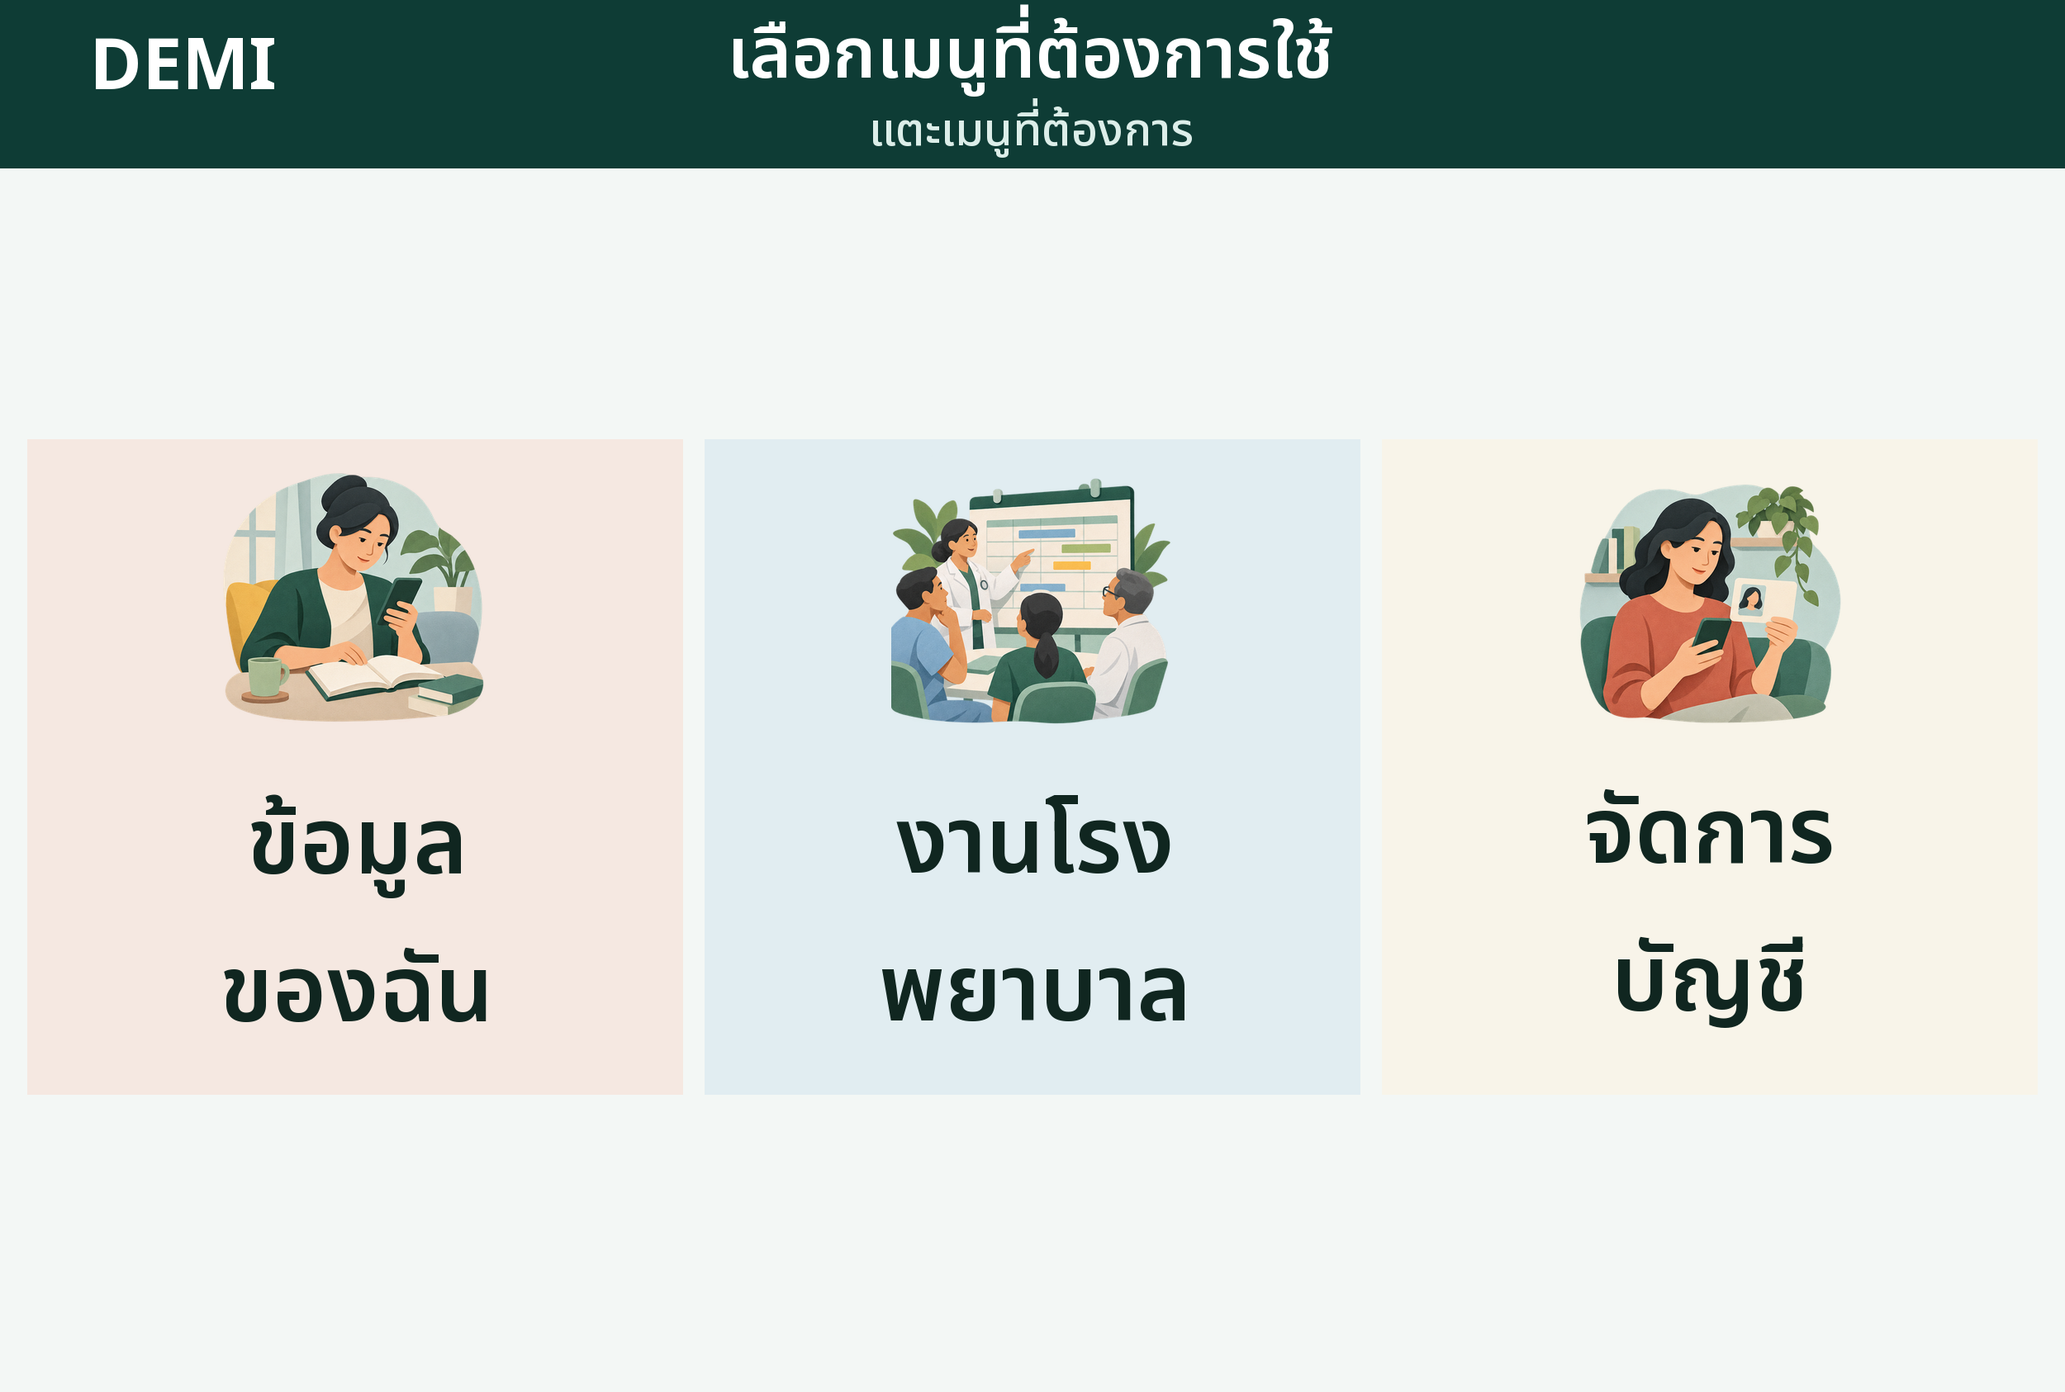
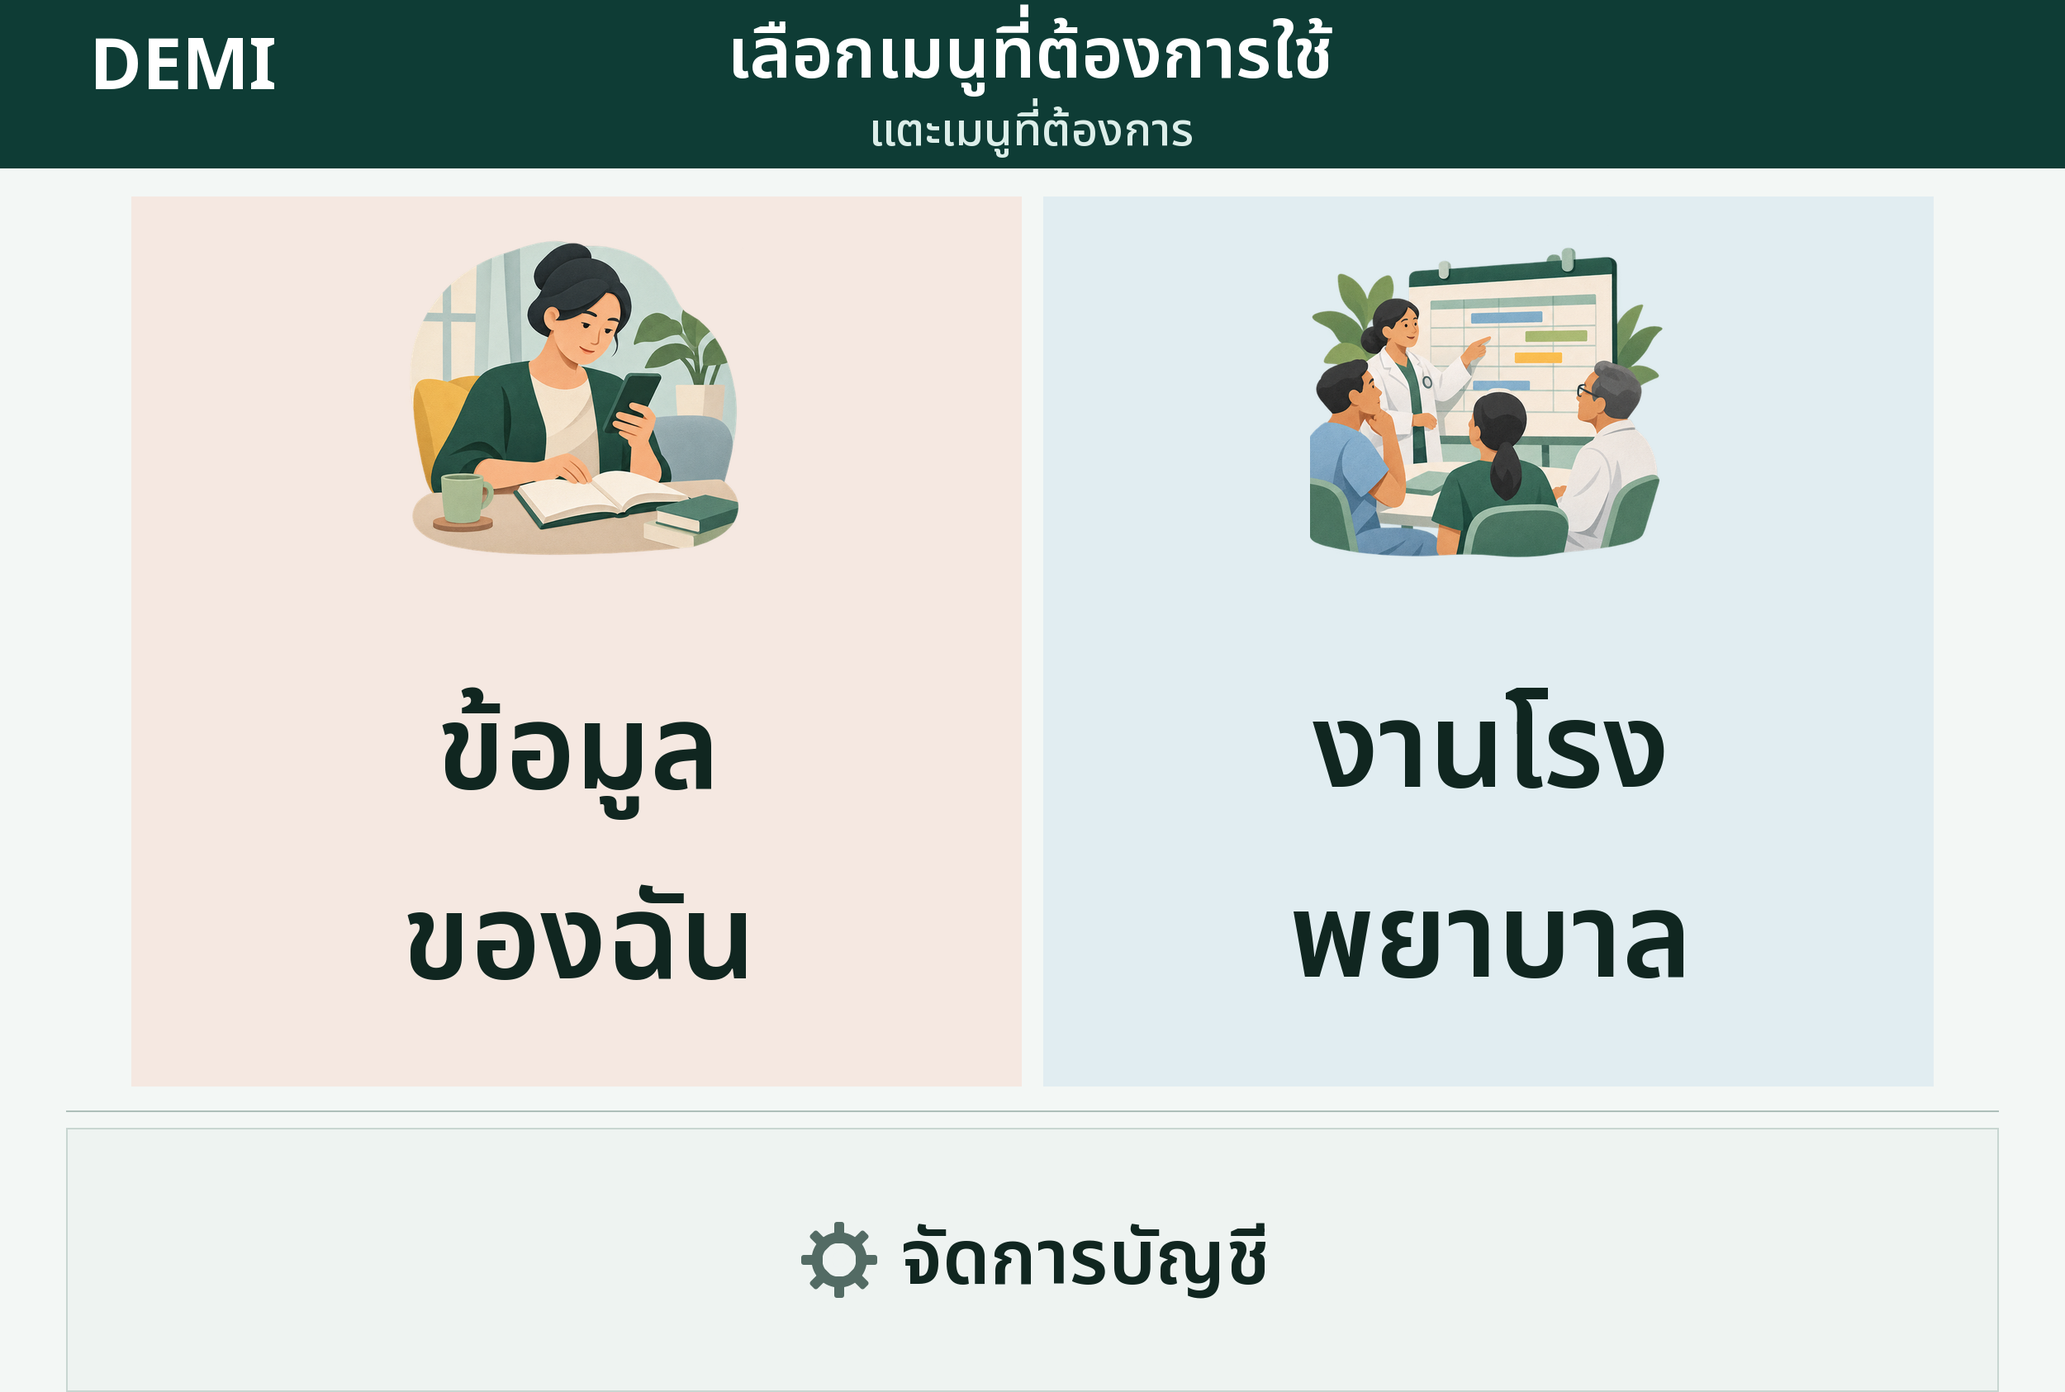
Render Manage Account as a utility footer

diff --git a/scripts/line-rich-menu-renderer.ts b/scripts/line-rich-menu-renderer.ts
@@ -25,6 +25,11 @@ const colors = {
   accountPrimary: "#F2E8D0",
   accountSecondary: "#F8F4E9",
   headerContext: "#DCEEE9",
+  utilitySurface: "#EEF3F1",
+  utilityBorder: "#C8D6D1",
+  statusBorder: "#D5E0DC",
+  separator: "#AEBFBA",
+  utilityInk: "#536B64",
 } as const;
 
 const toneColors: Record<LineRichMenuIllustrationTone, { primary: string; secondary: string }> = {
@@ -65,21 +70,25 @@ const OSM_TASK_INTENTS = new Set([
 
 type FontWeight = "Medium" | "Semi-Bold" | "Bold";
 
-type MenuActionManifest = {
+type MenuActionManifestBase = {
   label: string;
   kind: "uri" | "richmenuswitch" | "message";
   intent: string | null;
-  illustration: LineRichMenuIllustration;
-  tone: LineRichMenuIllustrationTone;
   bounds: LineMenuBounds;
 };
+
+export type LineRichMenuMenuAction = MenuActionManifestBase & (
+  | { region: "primary"; illustration: LineRichMenuIllustration; tone: LineRichMenuIllustrationTone }
+  | { region: "utility"; icon: "settings" }
+);
 
 export type LineRichMenuAssetManifestEntry = {
   key: string;
   title: string;
   context: string;
   assetFile: string;
-  actions: readonly MenuActionManifest[];
+  actions: readonly LineRichMenuMenuAction[];
+  status: { label: string; bounds: LineMenuBounds } | null;
 };
 
 export type LineMenuTextStyle = { fontSize: number; weight: FontWeight; color: string };
@@ -150,7 +159,7 @@ async function createTextOverlay(
 
 function isPrimaryAction(
   menu: LineRichMenuAssetManifestEntry,
-  action: MenuActionManifest,
+  action: LineRichMenuMenuAction,
   index: number,
 ): boolean {
   if (menu.key.startsWith("CHOOSER_")) return action.kind === "richmenuswitch";
@@ -163,12 +172,15 @@ function isPrimaryAction(
   return menu.actions.length === 1 || index === 0;
 }
 
-function getActionFontSize(action: MenuActionManifest): number {
-  return action.bounds.width < 500 ? 88 : action.bounds.width < 800 ? 112 : 144;
+function getActionFontSize(action: LineRichMenuMenuAction): number {
+  if (action.bounds.width < 500) return 84;
+  if (action.bounds.width < 600) return 96;
+  if (action.bounds.width < 800) return 112;
+  return 144;
 }
 
 function getIllustrationSize(bounds: LineMenuBounds): number {
-  return Math.round(Math.min(bounds.width * 0.76, bounds.height * 0.43));
+  return Math.round(Math.min(bounds.width * 0.76, bounds.height * 0.4));
 }
 
 export function getLineRichMenuActionLines(label: string): readonly string[] {
@@ -176,14 +188,69 @@ export function getLineRichMenuActionLines(label: string): readonly string[] {
 }
 
 function buildBaseSvg(menu: LineRichMenuAssetManifestEntry): string {
-  const areas = menu.actions.map((action, index) => {
+  const areas = menu.actions.filter((action) => action.region === "primary").map((action, index) => {
     const background = toneColors[action.tone][isPrimaryAction(menu, action, index) ? "primary" : "secondary"];
     const { x, y, width, height } = action.bounds;
     // The flat rectangular field aligns with LINE's tappable area; gutters remain visible between actions.
     return `<rect x="${x + 1}" y="${y + 1}" width="${width - 2}" height="${height - 2}" fill="${background}"/>`;
   }).join("");
+  const utility = menu.actions.find(
+    (action): action is Extract<LineRichMenuMenuAction, { region: "utility" }> => action.region === "utility",
+  );
+  const utilitySurface = utility
+    ? `<rect x="${utility.bounds.x + 1}" y="${utility.bounds.y + 1}" width="${utility.bounds.width - 2}" height="${utility.bounds.height - 2}" fill="${colors.utilitySurface}" stroke="${colors.utilityBorder}" stroke-width="2"/>`
+    : "";
+  const separator = utility
+    ? `<path d="M${utility.bounds.x} ${utility.bounds.y - 20}H${utility.bounds.x + utility.bounds.width}" stroke="${colors.separator}" stroke-width="2"/>`
+    : "";
+  const status = menu.status
+    ? `<rect x="${menu.status.bounds.x + 1}" y="${menu.status.bounds.y + 1}" width="${menu.status.bounds.width - 2}" height="${menu.status.bounds.height - 2}" fill="${colors.utilitySurface}" stroke="${colors.statusBorder}" stroke-width="2"/>`
+    : "";
 
-  return `<svg xmlns="http://www.w3.org/2000/svg" width="${LINE_RICH_MENU_CANVAS.width}" height="${LINE_RICH_MENU_CANVAS.height}" viewBox="0 0 2500 1686"><rect width="2500" height="1686" fill="${colors.canvas}"/><rect width="2500" height="204" fill="${colors.brand}"/>${areas}</svg>`;
+  return `<svg xmlns="http://www.w3.org/2000/svg" width="${LINE_RICH_MENU_CANVAS.width}" height="${LINE_RICH_MENU_CANVAS.height}" viewBox="0 0 2500 1686"><rect width="2500" height="1686" fill="${colors.canvas}"/><rect width="2500" height="204" fill="${colors.brand}"/>${areas}${status}${separator}${utilitySurface}</svg>`;
+}
+
+function createSettingsGearBuffer(): Buffer {
+  const teeth = Array.from({ length: 8 }, (_, index) =>
+    `<rect x="42" y="2" width="12" height="26" rx="3" transform="rotate(${index * 45} 48 48)"/>`,
+  ).join("");
+  return Buffer.from(
+    `<svg xmlns="http://www.w3.org/2000/svg" width="96" height="96" viewBox="0 0 96 96"><g fill="${colors.utilityInk}">${teeth}</g><circle cx="48" cy="48" r="27" fill="none" stroke="${colors.utilityInk}" stroke-width="13"/><circle cx="48" cy="48" r="9" fill="${colors.utilitySurface}"/></svg>`,
+  );
+}
+
+async function createUtilityFooterOverlays(action: Extract<LineRichMenuMenuAction, { region: "utility" }>): Promise<ImageOverlay[]> {
+  const icon = createSettingsGearBuffer();
+  const iconSize = 96;
+  const iconBuffer = await sharp(icon).resize(iconSize, iconSize).png().toBuffer();
+  const labelBuffer = await renderThaiTextBuffer(action.label, {
+    fontSize: 92,
+    weight: "Semi-Bold",
+    color: colors.ink,
+  });
+  const metadata = await sharp(labelBuffer).metadata();
+  if (metadata.width === undefined || metadata.height === undefined) {
+    throw new Error("Could not measure the Manage Account footer label.");
+  }
+
+  const gap = 30;
+  const groupWidth = iconSize + gap + metadata.width;
+  if (groupWidth > action.bounds.width - 80 || metadata.height > action.bounds.height - 24) {
+    throw new Error("Manage Account footer content exceeds its LINE tappable area.");
+  }
+  const groupLeft = Math.round(action.bounds.x + (action.bounds.width - groupWidth) / 2);
+  return [
+    {
+      input: iconBuffer,
+      left: groupLeft,
+      top: action.bounds.y + Math.round((action.bounds.height - iconSize) / 2),
+    },
+    {
+      input: labelBuffer,
+      left: groupLeft + iconSize + gap,
+      top: action.bounds.y + Math.round((action.bounds.height - metadata.height) / 2),
+    },
+  ];
 }
 
 export async function renderLineRichMenuImage(menu: LineRichMenuAssetManifestEntry): Promise<Buffer> {
@@ -193,6 +260,7 @@ export async function renderLineRichMenuImage(menu: LineRichMenuAssetManifestEnt
   const textOverlays: ImageOverlay[] = [];
 
   for (const action of menu.actions) {
+    if (action.region !== "primary") continue;
     const illustrationSize = getIllustrationSize(action.bounds);
     const illustration = await getLineRichMenuIllustrationBuffer(action.illustration);
     const image = await sharp(illustration)
@@ -233,6 +301,7 @@ export async function renderLineRichMenuImage(menu: LineRichMenuAssetManifestEnt
   ));
 
   for (const action of menu.actions) {
+    if (action.region !== "primary") continue;
     const fontSize = getActionFontSize(action);
     textOverlays.push(await createTextOverlay(
       getLineRichMenuActionLines(action.label).join("\n"),
@@ -245,6 +314,20 @@ export async function renderLineRichMenuImage(menu: LineRichMenuAssetManifestEnt
       { fontSize, weight: "Semi-Bold", color: colors.ink },
       { horizontal: 24, vertical: 4 },
       `${menu.key} action “${action.label}”`,
+    ));
+  }
+
+  const utilityAction = menu.actions.find(
+    (action): action is Extract<LineRichMenuMenuAction, { region: "utility" }> => action.region === "utility",
+  );
+  if (utilityAction) illustrationOverlays.push(...await createUtilityFooterOverlays(utilityAction));
+  if (menu.status) {
+    textOverlays.push(await createTextOverlay(
+      menu.status.label,
+      menu.status.bounds,
+      { fontSize: 84, weight: "Medium", color: colors.ink },
+      { horizontal: 32, vertical: 12 },
+      `${menu.key} non-interactive account status`,
     ));
   }
 

diff --git a/src/modules/line/rich-menu/assets.test.ts b/src/modules/line/rich-menu/assets.test.ts
@@ -12,7 +12,7 @@ import {
 } from "../../../../scripts/line-rich-menu-illustrations";
 import { getLineRichMenuActionLines, getLineRichMenuColors, renderLineRichMenuImage } from "../../../../scripts/line-rich-menu-renderer";
 import { LINE_RICH_MENU_CATALOG } from "./catalog";
-import { getLineMenuAreaBounds } from "./layout";
+import { getLineMenuLayout } from "./layout";
 
 const assetDirectory = join(dirname(fileURLToPath(import.meta.url)), "../../../../public/line/rich-menus");
 
@@ -42,13 +42,15 @@ describe("DEMI LINE Rich Menu PNG assets", () => {
     for (const menu of LINE_RICH_MENU_CATALOG) {
       const assetMenu = manifest.find((entry) => entry.key === menu.key);
       if (!assetMenu) throw new Error(`Missing asset manifest entry for ${menu.key}.`);
-      expect(assetMenu.actions.map((action) => action.bounds)).toEqual(getLineMenuAreaBounds(menu));
+      expect(assetMenu.actions.map((action) => action.bounds)).toEqual(
+        getLineMenuLayout(menu).actionAreas.map(({ bounds }) => bounds),
+      );
     }
   });
 
   it("maps catalog actions to bundled, role-aware editorial illustrations independent of labels", async () => {
     const expected: Record<string, LineRichMenuIllustration> = {
-      LINK_ACCOUNT: "account-linking", MANAGE_ACCOUNT: "account-management",
+      LINK_ACCOUNT: "account-linking",
       OPEN_PATIENT_APPOINTMENTS: "patient-appointment-history", OPEN_PATIENT_WELLNESS: "patient-wellness-recording",
       OPEN_PATIENT_MEDICATIONS: "patient-medication-review", OPEN_PATIENT_CARE: "patient-care-guidance",
       OPEN_OSM_ASSIGNED_PATIENTS: "osm-community-workspace", START_OSM_SCREENING: "osm-screening",
@@ -59,6 +61,10 @@ describe("DEMI LINE Rich Menu PNG assets", () => {
     const seenIllustrations = new Set<LineRichMenuIllustration>();
     for (const menu of LINE_RICH_MENU_CATALOG) {
       for (const action of menu.actions) {
+        if (action.type === "uri" && action.intent === "MANAGE_ACCOUNT") {
+          expect(() => getLineRichMenuActionVisual(menu, action)).toThrow("has no illustration");
+          continue;
+        }
         const visual = getLineRichMenuActionVisual(menu, { ...action, label: "เปลี่ยนข้อความทดสอบ" });
         const expectedIllustration = action.type === "message" ? "patient-appointment-consultation"
           : action.type === "richmenuswitch" ? roles[action.role]
@@ -75,7 +81,35 @@ describe("DEMI LINE Rich Menu PNG assets", () => {
         expect(metadata.height).toBeGreaterThan(0);
       }
     }
-    expect(seenIllustrations.size).toBe(13);
+    expect(seenIllustrations.size).toBe(12);
+  });
+
+  it("renders Manage Account only as a settings utility and keeps the ineligible status non-interactive", () => {
+    const manifest = createLineRichMenuAssetManifest();
+    expect(manifest).toHaveLength(18);
+    expect(JSON.stringify(manifest)).not.toContain("account-management");
+
+    for (const menu of manifest) {
+      const utilityActions = menu.actions.filter((action) => action.region === "utility");
+      const primaryActions = menu.actions.filter((action) => action.region === "primary");
+      expect(utilityActions, menu.key).toHaveLength(menu.key === "UNLINKED" ? 0 : 1);
+      expect(primaryActions.some((action) => action.intent === "MANAGE_ACCOUNT"), menu.key).toBe(false);
+      for (const action of utilityActions) {
+        expect(action).toMatchObject({ region: "utility", icon: "settings", label: "จัดการบัญชี" });
+        expect("illustration" in action).toBe(false);
+        expect("tone" in action).toBe(false);
+      }
+    }
+
+    const unlinked = manifest.find((menu) => menu.key === "UNLINKED");
+    const ineligible = manifest.find((menu) => menu.key === "LINKED_INELIGIBLE");
+    expect(unlinked?.status).toBeNull();
+    expect(ineligible?.status).toEqual({
+      label: "บัญชีนี้ยังไม่มีเมนูให้ใช้งาน",
+      bounds: { x: 220, y: 620, width: 2060, height: 420 },
+    });
+    expect(ineligible?.actions).toHaveLength(1);
+    expect(ineligible?.actions[0]).toMatchObject({ region: "utility", icon: "settings" });
   });
 
   it("preserves every Thai label through intentional line breaks", () => {
@@ -124,6 +158,13 @@ describe("DEMI LINE Rich Menu PNG assets", () => {
       };
       for (const [index, action] of menu.actions.entries()) {
         const { x, y, width, height } = action.bounds;
+        if (action.region === "utility") {
+          expect(action.bounds).toEqual({ x: 80, y: 1366, width: 2340, height: 320 });
+          expect(pixel(x + Math.floor(width / 2), y + 5), menu.key).toEqual(rgb(colors.utilitySurface));
+          expect(pixel(x - 1, y + Math.floor(height / 2)), menu.key).toEqual(rgb(colors.canvas));
+          expect(pixel(x + Math.floor(width / 2), y - 1), menu.key).toEqual(rgb(colors.canvas));
+          continue;
+        }
         const primary = menu.key.startsWith("CHOOSER_") ? action.kind === "richmenuswitch"
           : menu.key.startsWith("PATIENT_")
             ? action.kind === "message" || (action.intent !== null && [

diff --git a/scripts/line-rich-menu-asset-manifest.ts b/scripts/line-rich-menu-asset-manifest.ts
@@ -1,23 +1,34 @@
 import { LINE_RICH_MENU_CATALOG } from "../src/modules/line/rich-menu/catalog";
-import { getLineMenuAreaBounds } from "../src/modules/line/rich-menu/layout";
-import type { LineRichMenuAssetManifestEntry } from "./line-rich-menu-renderer";
+import { getLineMenuLayout } from "../src/modules/line/rich-menu/layout";
+import type { LineRichMenuAssetManifestEntry, LineRichMenuMenuAction } from "./line-rich-menu-renderer";
 import { getLineRichMenuActionVisual } from "./line-rich-menu-illustrations";
 
 export function createLineRichMenuAssetManifest(): LineRichMenuAssetManifestEntry[] {
   return LINE_RICH_MENU_CATALOG.map((menu) => {
-    const bounds = getLineMenuAreaBounds(menu);
+    const layout = getLineMenuLayout(menu);
+    const actions: LineRichMenuMenuAction[] = layout.actionAreas.map(({ action, region, bounds }) => {
+      const shared = {
+        label: action.label,
+        kind: action.type,
+        intent: action.type === "uri" ? action.intent : null,
+        bounds,
+      };
+
+      if (region === "utility") {
+        return { ...shared, region, icon: "settings" };
+      }
+
+      return { ...shared, region, ...getLineRichMenuActionVisual(menu, action) };
+    });
+    const status = layout.statusRegion ? { label: menu.context, bounds: layout.statusRegion } : null;
+
     return {
       key: menu.key,
       title: menu.title,
       context: menu.context,
       assetFile: menu.assetFile,
-      actions: menu.actions.map((action, index) => ({
-        label: action.label,
-        kind: action.type,
-        intent: action.type === "uri" ? action.intent : null,
-        ...getLineRichMenuActionVisual(menu, action),
-        bounds: bounds[index],
-      })),
+      actions,
+      status,
     };
   });
 }

diff --git a/scripts/line-rich-menu-illustrations.ts b/scripts/line-rich-menu-illustrations.ts
@@ -17,8 +17,7 @@ export type LineRichMenuIllustration =
   | "osm-community-workspace"
   | "osm-workflow-coordination"
   | "hospital-operations"
-  | "account-linking"
-  | "account-management";
+  | "account-linking";
 
 export type LineRichMenuIllustrationTone = "patient" | "osm" | "hospital" | "account";
 
@@ -54,7 +53,6 @@ const illustrationSources: Record<LineRichMenuIllustration, IllustrationSource> 
   "patient-medication-review": { kind: "atlas", atlas: "patient-care", quadrant: 2 },
   "patient-care-guidance": { kind: "atlas", atlas: "patient-care", quadrant: 3 },
   "account-linking": { kind: "atlas", atlas: "identity-and-workspaces", quadrant: 0 },
-  "account-management": { kind: "atlas", atlas: "identity-and-workspaces", quadrant: 1 },
   "patient-workspace": { kind: "atlas", atlas: "identity-and-workspaces", quadrant: 2 },
   "osm-community-workspace": { kind: "atlas", atlas: "identity-and-workspaces", quadrant: 3 },
   "osm-workflow-coordination": {
@@ -76,7 +74,6 @@ const illustrationTones: Record<LineRichMenuIllustration, LineRichMenuIllustrati
   "osm-workflow-coordination": "osm",
   "hospital-operations": "hospital",
   "account-linking": "account",
-  "account-management": "account",
 };
 
 const roleIllustrations = {
@@ -112,7 +109,7 @@ export function getLineRichMenuActionVisual(
     case "LINK_ACCOUNT":
       return actionVisual("account-linking");
     case "MANAGE_ACCOUNT":
-      return actionVisual("account-management");
+      throw new Error("MANAGE_ACCOUNT is a utility footer action and has no illustration.");
     case "OPEN_PATIENT_APPOINTMENTS":
       return actionVisual("patient-appointment-history");
     case "OPEN_PATIENT_WELLNESS":
